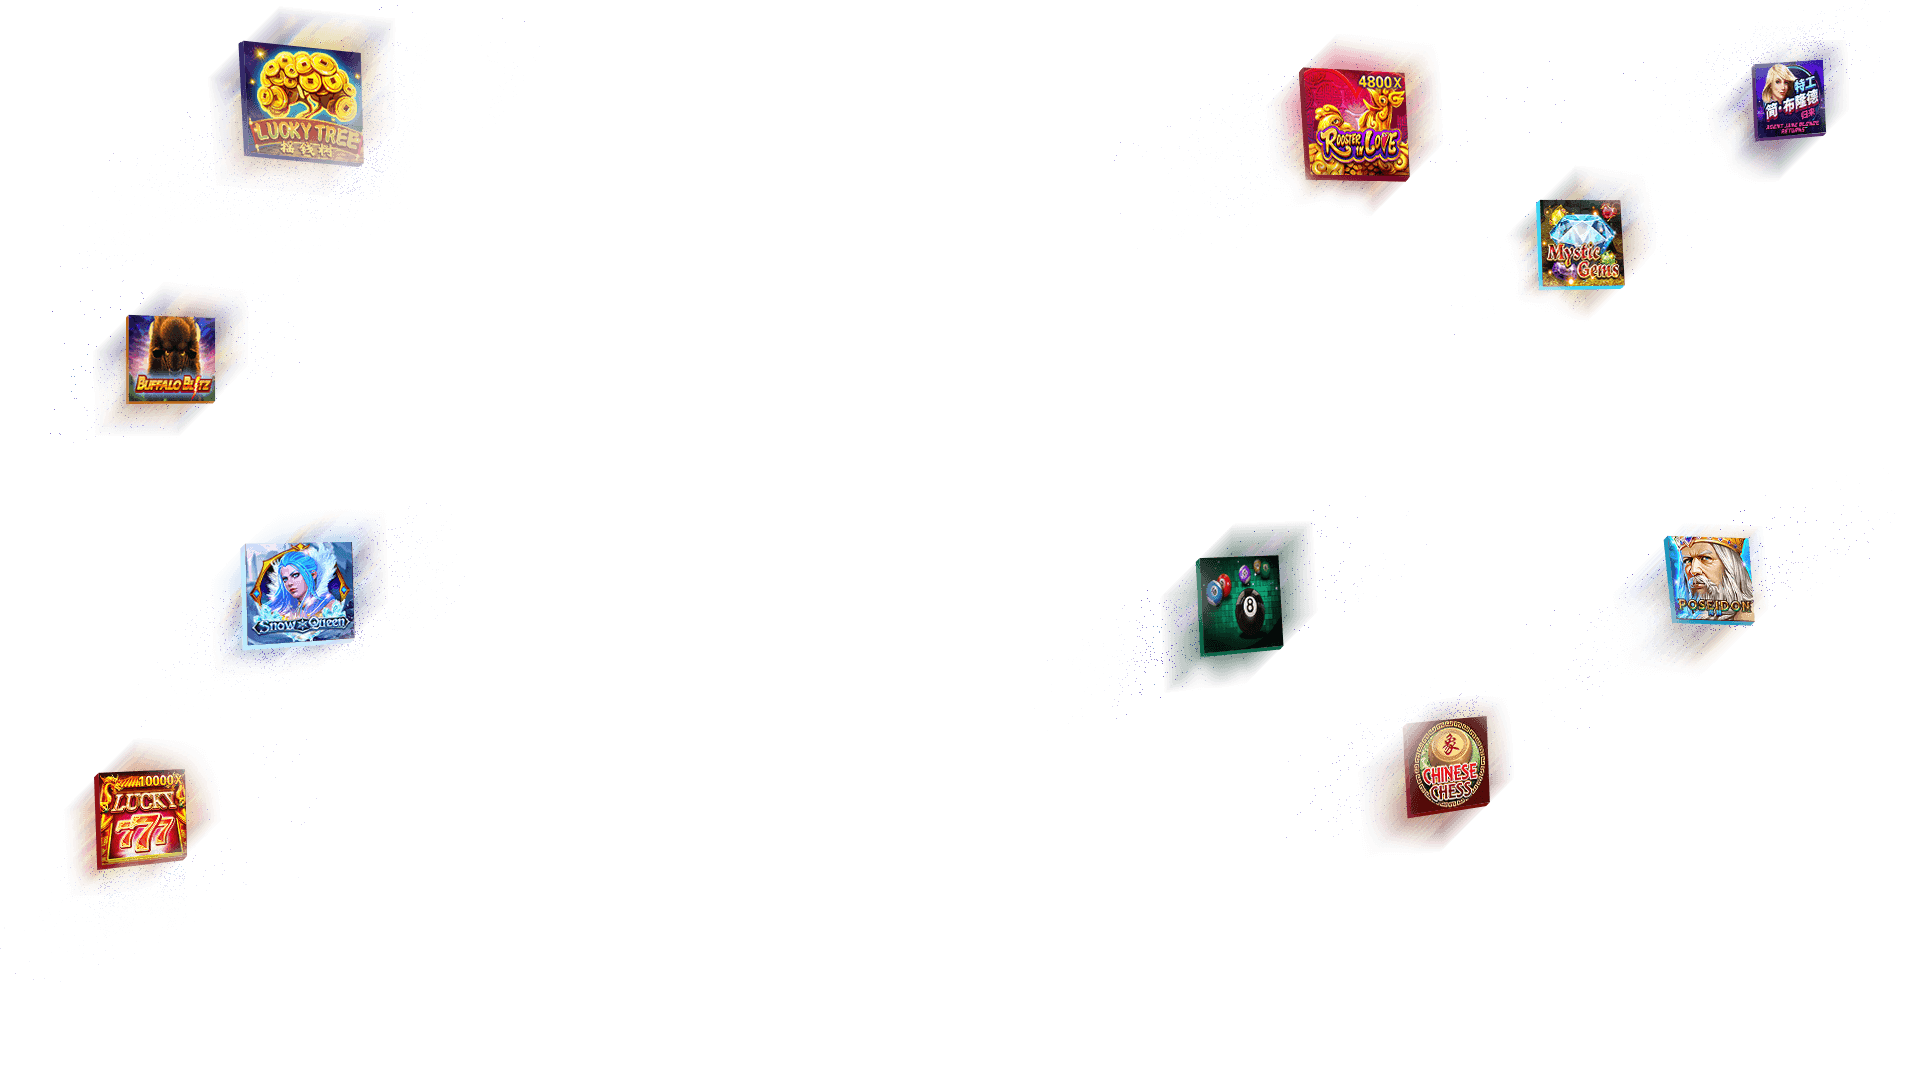
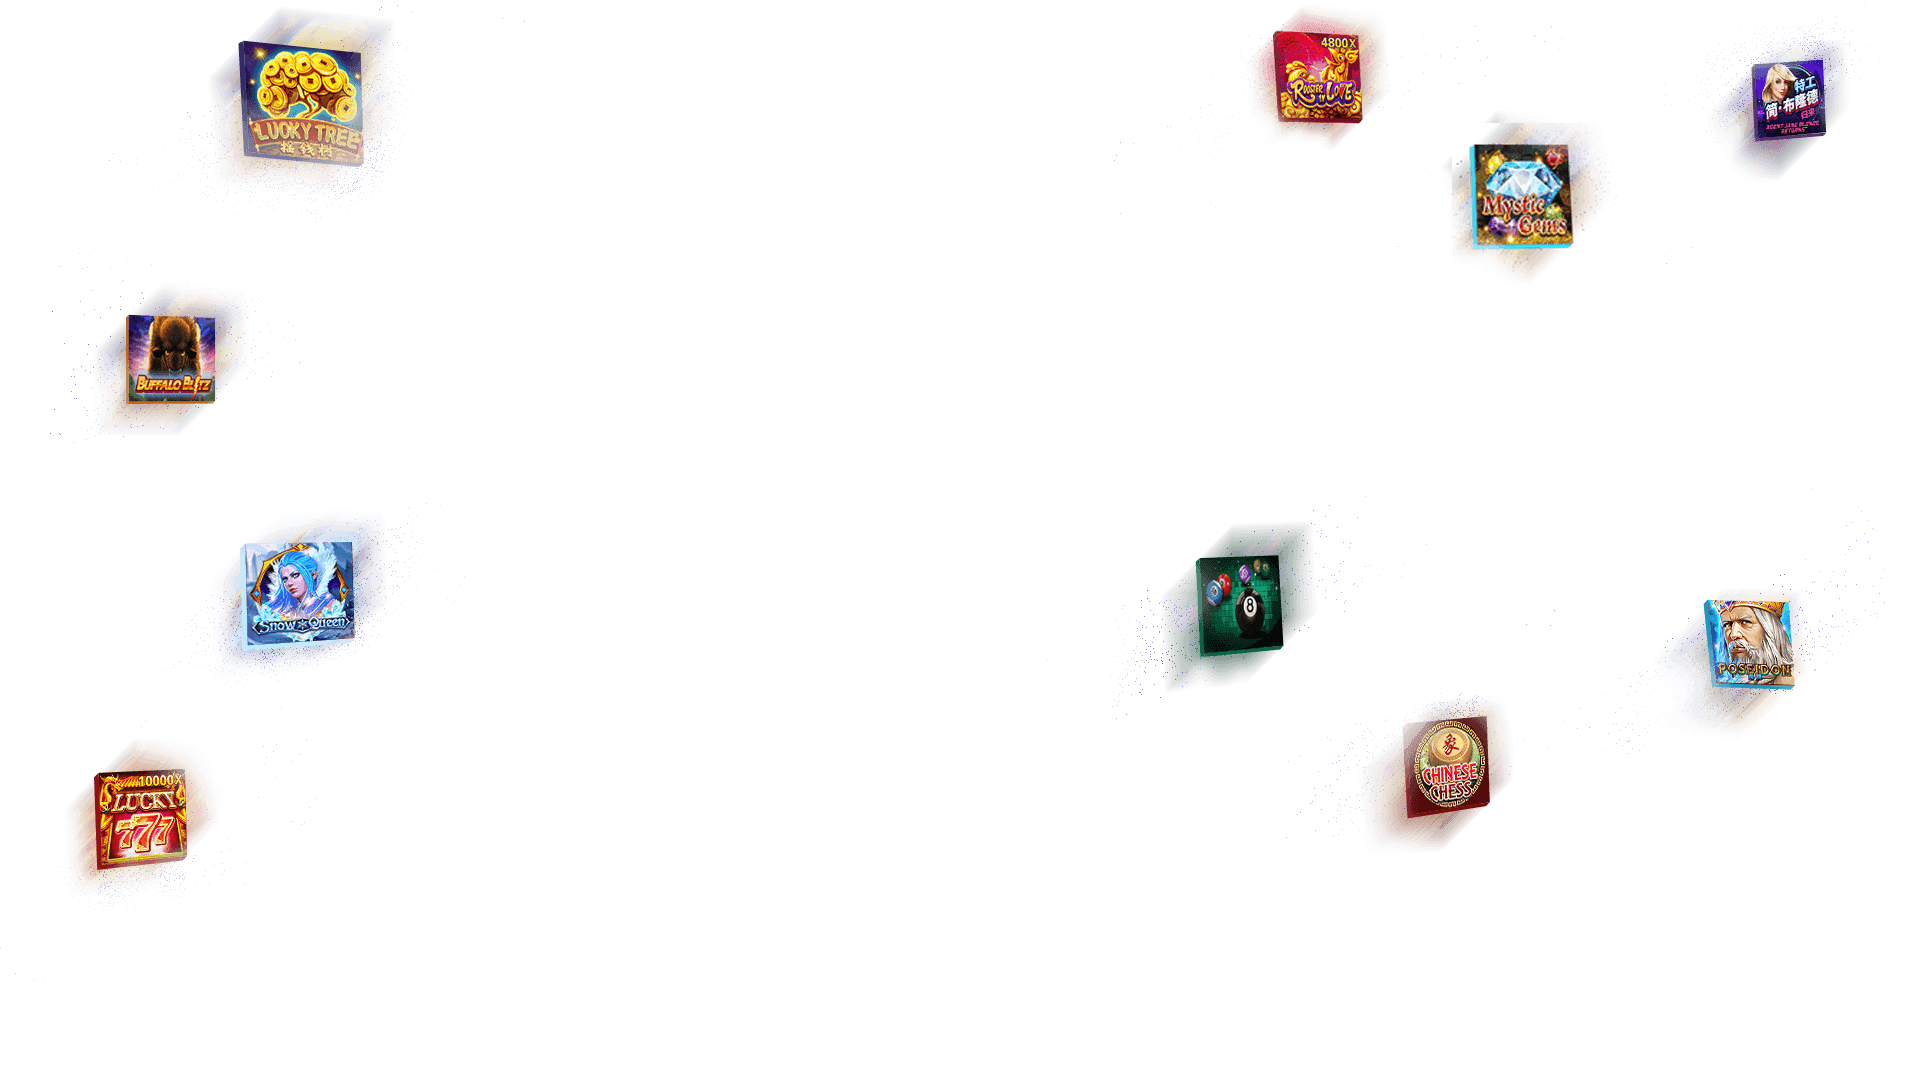
190717-惟调整

Changed region(s): [[0.6562, 0.0, 0.875, 0.3056], [0.8438, 0.4889, 0.9375, 0.6722]]

diff --git a/css/CustomStyle.css b/css/CustomStyle.css
@@ -113,23 +113,23 @@ body {
 }
 
 .wrap section.PageBox .PBi-01 .box01 .ImgItemBox.aaa .pg01-part-1 {
-  -webkit-transform: translate(627px, 821px);
-  transform: translate(627px, 821px);
+  -webkit-transform: translate(620px, 740px);
+  transform: translate(620px, 740px);
 }
 
 .wrap section.PageBox .PBi-01 .box01 .ImgItemBox.aaa .pg01-part-2 {
-  -webkit-transform: translate(230px, 685px);
-  transform: translate(230px, 685px);
+  -webkit-transform: translate(230px, 600px);
+  transform: translate(230px, 600px);
 }
 
 .wrap section.PageBox .PBi-01 .box01 .ImgItemBox.aaa .pg01-part-3 {
-  -webkit-transform: translate(237px, 409px);
-  transform: translate(237px, 409px);
+  -webkit-transform: translate(220px, 340px);
+  transform: translate(220px, 340px);
 }
 
 .wrap section.PageBox .PBi-01 .box01 .ImgItemBox.aaa .pg01-part-4 {
-  -webkit-transform: translate(-230px, -26px);
-  transform: translate(-230px, -26px);
+  -webkit-transform: translate(-230px, -40px);
+  transform: translate(-230px, -40px);
 }
 
 .wrap section.PageBox .PBi-01 .box02 {
@@ -155,7 +155,7 @@ body {
   font-size: 38px;
 }
 
-.wrap section.PageBox .PBi-01 .box02 .MBox {
+.wrap section.PageBox .PBi-01 .MBox {
   display: none;
 }
 
@@ -289,8 +289,8 @@ body {
   display: flex;
   -webkit-justify-content: center;
   justify-content: center;
-  -webkit-align-items: center;
-  align-items: center;
+  -webkit-align-items: end;
+  align-items: end;
   -webkit-flex-direction: column;
   flex-direction: column;
 }
@@ -454,6 +454,7 @@ body {
 .wrap section.PageBox:nth-child(1) {
   background-color: #0c1323;
   background-image: url(../images/pg01/Imgbg.png);
+  background-position: left bottom;
 }
 
 .wrap section.PageBox:nth-child(2) {
@@ -692,6 +693,9 @@ body {
   .wrap section.PageBox .PBi-02 .box02 img {
     width: 100%;
   }
+  .wrap section.PageBox .PBi-03 .box02 {
+    margin: 30px 0 10px;
+  }
   .wrap section.PageBox .PBi-01 .PCBox, .wrap section.PageBox .PBi-03 .PCBox {
     display: none;
   }
@@ -705,20 +709,28 @@ body {
   .wrap section.PageBox .PBi-05 .box01 .ItemBox li::before {
     font-size: 5.06667vw;
   }
+  .wrap section.PageBox .PBi-06 .box01 h2 {
+    font-size: 10.26667vw;
+    margin: 30px 0 30px;
+  }
+  .wrap section.PageBox .PBi-06 .box01 p:nth-child(5) {
+    margin-top: 20px;
+    font-size: 6.66667vw;
+  }
   .wrap section.PageBox:nth-child(1) {
     background-color: #0c1323;
     background-image: none;
   }
   .wrap h2 {
-    font-size: 7.2vw;
+    font-size: 6.66667vw;
     line-height: 8vw;
   }
   .wrap h3 {
-    font-size: 6.13333vw;
+    font-size: 5.33333vw;
     font-weight: 500;
   }
   .wrap .txt {
-    font-size: 4.8vw;
-    line-height: 6.4vw;
+    font-size: 6.66667vw;
+    line-height: 9.33333vw;
   }
 }

diff --git a/index.html b/index.html
@@ -20,7 +20,6 @@
             <section class="PageBox">
                 <div class="PB-inner PBi-01">
                     <div class="box box01">
-                        <img src="images/pg06/logo.png" style="position: absolute; top: 50px; left: 400px;">
                         <div class="ImgItemBox PCBox">
                             <img class="item pg01-part-1" src="images/pg01/Highlight-01.png" alt="">
                             <img class="item pg01-part-2" src="images/pg01/Highlight-02.png" alt="">
@@ -29,6 +28,7 @@
                         </div>
                     </div>
                     <div class="box box02">
+                        <img src="images/pg06/logo.png" style="position: absolute;top: -100px;left: 170px;">
                         <h2>佣金 <span>50%</span></h2>
                         <p class="txt">专业团队指导，5分钟就上手赚。</p>
                         <div class="MBox">
@@ -78,7 +78,7 @@
                     <div class="box box01 block-04">
                         <h2 class="ml4">佣金周結</h2>
                         <h3>两种模式 保证稳赚</h3>
-                        <p class="txt">
+                        <p class="txt txt-o">
                             累积财富&nbsp;&nbsp;&nbsp;&nbsp;壮大资产</br>
                             每周对帐即派佣金&nbsp;&nbsp;&nbsp;&nbsp;立马到帐</br>
                             详细数据完整提供&nbsp;&nbsp;&nbsp;&nbsp;业界最透明的对帐方式
